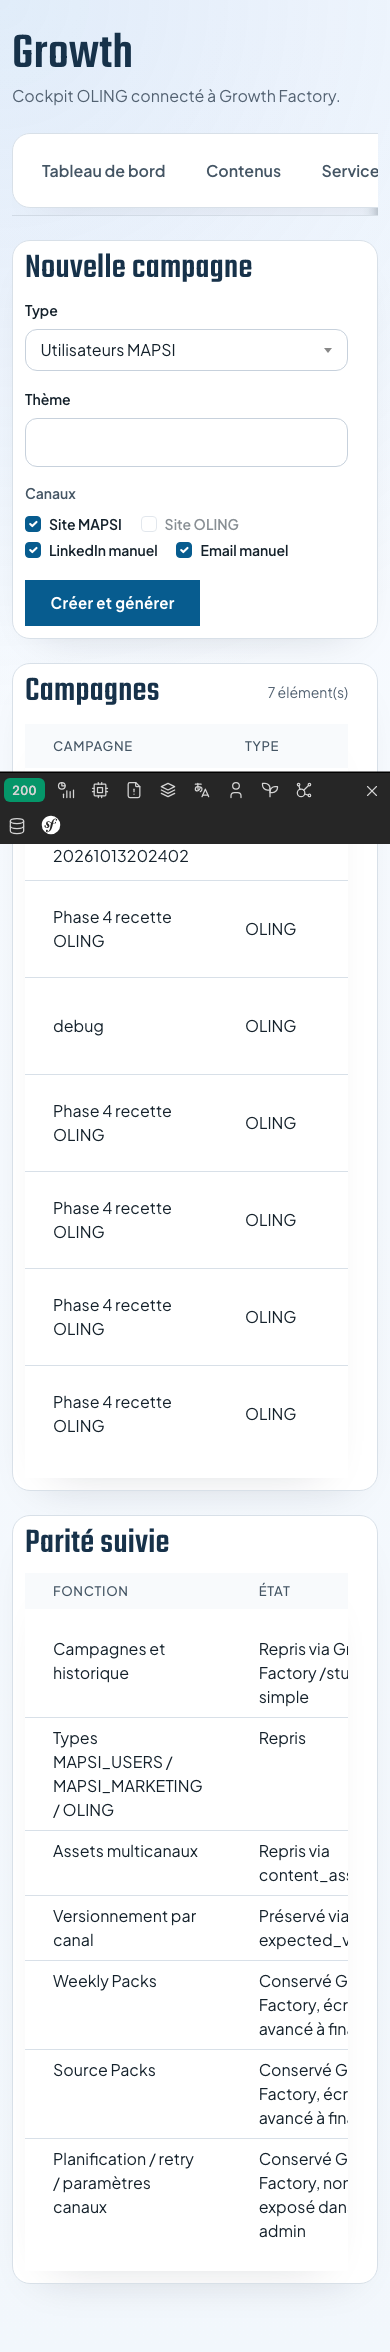
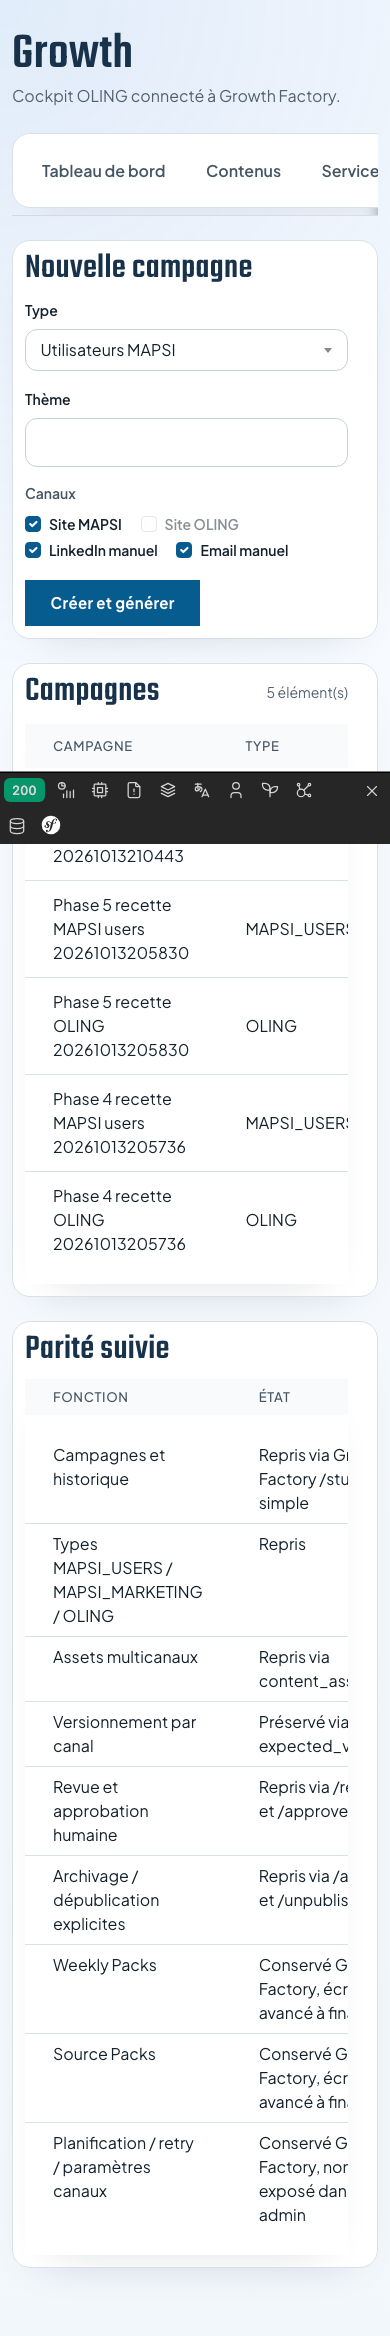
Finalize Growth admin staging workflow

diff --git a/src/Controller/GrowthAdminController.php b/src/Controller/GrowthAdminController.php
@@ -123,6 +123,40 @@ class GrowthAdminController extends AbstractController
         return $this->redirectToRoute('admin_growth_show', ['id' => $id]);
     }
 
+    #[Route('/campaigns/{id}/assets/{assetId}/review', name: 'admin_growth_asset_review', methods: ['POST'])]
+    public function reviewAsset(string $id, string $assetId, Request $request, GrowthFactoryClient $client): Response
+    {
+        $this->validateCsrf($request, 'growth_review_'.$id.'_'.$assetId);
+
+        try {
+            $client->reviewAsset($this->getUserOrDeny(), $id, $assetId, (int) $request->request->get('expected_version', 0), trim((string) $request->request->get('comment', '')));
+            $this->addFlash('success', 'Contenu marqué comme revu.');
+        } catch (GrowthFactoryConflictException) {
+            $this->addFlash('danger', 'Revue impossible : rechargez la campagne ou vérifiez son état.');
+        } catch (GrowthFactoryException $exception) {
+            $this->addFlash('danger', $exception->getMessage());
+        }
+
+        return $this->redirectToRoute('admin_growth_show', ['id' => $id]);
+    }
+
+    #[Route('/campaigns/{id}/assets/{assetId}/approve', name: 'admin_growth_asset_approve', methods: ['POST'])]
+    public function approveAsset(string $id, string $assetId, Request $request, GrowthFactoryClient $client): Response
+    {
+        $this->validateCsrf($request, 'growth_approve_'.$id.'_'.$assetId);
+
+        try {
+            $client->approveAsset($this->getUserOrDeny(), $id, $assetId, (int) $request->request->get('expected_version', 0), trim((string) $request->request->get('comment', '')));
+            $this->addFlash('success', 'Contenu approuvé.');
+        } catch (GrowthFactoryConflictException) {
+            $this->addFlash('danger', 'Approbation impossible : la version ou l’état du contenu a changé.');
+        } catch (GrowthFactoryException $exception) {
+            $this->addFlash('danger', $exception->getMessage());
+        }
+
+        return $this->redirectToRoute('admin_growth_show', ['id' => $id]);
+    }
+
     #[Route('/campaigns/{id}/assets/{assetId}/preview', name: 'admin_growth_asset_preview', methods: ['GET'])]
     public function previewAsset(string $id, string $assetId, GrowthFactoryClient $client, GrowthFactoryView $view): Response
     {
@@ -165,6 +199,37 @@ class GrowthAdminController extends AbstractController
         return $this->redirectToRoute('admin_growth_show', ['id' => $id]);
     }
 
+    #[Route('/campaigns/{id}/unpublish', name: 'admin_growth_unpublish', methods: ['POST'])]
+    public function unpublish(string $id, Request $request, GrowthFactoryClient $client): Response
+    {
+        $this->validateCsrf($request, 'growth_unpublish_'.$id);
+
+        try {
+            $client->unpublishCampaign($this->getUserOrDeny(), $id, (array) $request->request->all('channels'));
+            $this->addFlash('success', 'Dépublication demandée à Growth Factory.');
+        } catch (GrowthFactoryException $exception) {
+            $this->addFlash('danger', $exception->getMessage());
+        }
+
+        return $this->redirectToRoute('admin_growth_show', ['id' => $id]);
+    }
+
+    #[Route('/campaigns/{id}/archive', name: 'admin_growth_archive', methods: ['POST'])]
+    public function archive(string $id, Request $request, GrowthFactoryClient $client): Response
+    {
+        $this->validateCsrf($request, 'growth_archive_'.$id);
+
+        try {
+            $client->archiveCampaign($this->getUserOrDeny(), $id);
+            $this->addFlash('success', 'Campagne archivée.');
+        } catch (GrowthFactoryException $exception) {
+            $this->addFlash('danger', $exception->getMessage());
+            return $this->redirectToRoute('admin_growth_show', ['id' => $id]);
+        }
+
+        return $this->redirectToRoute('admin_growth_index');
+    }
+
     #[Route('/campaigns/{id}/delete', name: 'admin_growth_delete', methods: ['POST'])]
     public function delete(string $id, Request $request, GrowthFactoryClient $client): Response
     {
@@ -172,7 +237,7 @@ class GrowthAdminController extends AbstractController
 
         try {
             $client->deleteCampaign($this->getUserOrDeny(), $id);
-            $this->addFlash('success', 'Campagne supprimée ou archivée par Growth Factory.');
+            $this->addFlash('success', 'Campagne supprimée.');
         } catch (GrowthFactoryException $exception) {
             $this->addFlash('danger', $exception->getMessage());
         }

diff --git a/src/Service/GrowthFactory/GrowthFactoryClient.php b/src/Service/GrowthFactory/GrowthFactoryClient.php
@@ -55,9 +55,35 @@ final class GrowthFactoryClient
         return $this->request($actor, 'PUT', '/studio-simple/campaigns/'.rawurlencode($campaignId).'/assets/'.rawurlencode($assetId), $payload);
     }
 
+    public function reviewAsset(UserInterface $actor, string $campaignId, string $assetId, int $expectedVersion, string $comment = ''): array
+    {
+        return $this->request($actor, 'POST', '/studio-simple/campaigns/'.rawurlencode($campaignId).'/assets/'.rawurlencode($assetId).'/review', [
+            'comment' => $comment,
+            'expected_version' => $expectedVersion,
+        ]);
+    }
+
+    public function approveAsset(UserInterface $actor, string $campaignId, string $assetId, int $expectedVersion, string $comment = ''): array
+    {
+        return $this->request($actor, 'POST', '/studio-simple/campaigns/'.rawurlencode($campaignId).'/assets/'.rawurlencode($assetId).'/approve', [
+            'comment' => $comment,
+            'expected_version' => $expectedVersion,
+        ]);
+    }
+
     public function publishCampaign(UserInterface $actor, string $id, array $channels): array
     {
         return $this->request($actor, 'POST', '/studio-simple/campaigns/'.rawurlencode($id).'/publish', ['channels' => array_values($channels)]);
+    }
+
+    public function unpublishCampaign(UserInterface $actor, string $id, array $channels): array
+    {
+        return $this->request($actor, 'POST', '/studio-simple/campaigns/'.rawurlencode($id).'/unpublish', ['channels' => array_values($channels)]);
+    }
+
+    public function archiveCampaign(UserInterface $actor, string $id): array
+    {
+        return $this->request($actor, 'POST', '/studio-simple/campaigns/'.rawurlencode($id).'/archive');
     }
 
     public function deleteCampaign(UserInterface $actor, string $id): void

diff --git a/tests/GrowthFactoryClientTest.php b/tests/GrowthFactoryClientTest.php
@@ -41,7 +41,11 @@ final class GrowthFactoryClientTest extends TestCase
         $factory->createCampaign($actor, 'MAPSI_MARKETING', 'Theme', ['mapsi_site', 'oling_site']);
         $factory->generateCampaign($actor, 'camp_1');
         $factory->updateAsset($actor, 'camp_1', 'asset_1', ['expected_version' => 3]);
+        $factory->reviewAsset($actor, 'camp_1', 'asset_1', 4, 'ok');
+        $factory->approveAsset($actor, 'camp_1', 'asset_1', 4, 'ok');
         $factory->publishCampaign($actor, 'camp_1', ['mapsi_site']);
+        $factory->unpublishCampaign($actor, 'camp_1', ['mapsi_site']);
+        $factory->archiveCampaign($actor, 'camp_1');
 
         self::assertSame('POST', $requests[0][0]);
         self::assertStringEndsWith('/studio-simple/campaigns', $requests[0][1]);
@@ -49,7 +53,11 @@ final class GrowthFactoryClientTest extends TestCase
         self::assertStringContainsString('/studio-simple/campaigns/camp_1/generate', $requests[1][1]);
         self::assertSame('PUT', $requests[2][0]);
         self::assertSame(['expected_version' => 3], $requests[2][2]);
-        self::assertSame(['channels' => ['mapsi_site']], $requests[3][2]);
+        self::assertStringContainsString('/studio-simple/campaigns/camp_1/assets/asset_1/review', $requests[3][1]);
+        self::assertStringContainsString('/studio-simple/campaigns/camp_1/assets/asset_1/approve', $requests[4][1]);
+        self::assertSame(['channels' => ['mapsi_site']], $requests[5][2]);
+        self::assertStringContainsString('/studio-simple/campaigns/camp_1/unpublish', $requests[6][1]);
+        self::assertStringContainsString('/studio-simple/campaigns/camp_1/archive', $requests[7][1]);
         self::assertStringContainsString('Authorization: Bearer ', implode("\n", $requests[0][3]));
     }
 

diff --git a/src/Service/GrowthFactory/GrowthFactoryView.php b/src/Service/GrowthFactory/GrowthFactoryView.php
@@ -51,6 +51,9 @@ final class GrowthFactoryView
                 'content_text' => '',
                 'status' => 'DRAFT',
                 'version' => 0,
+                'approved_by' => '',
+                'approved_at' => null,
+                'approved_version' => null,
                 'published_at' => null,
                 'public_url' => '',
             ];
@@ -76,6 +79,8 @@ final class GrowthFactoryView
             ['feature' => 'Types MAPSI_USERS / MAPSI_MARKETING / OLING', 'status' => 'Repris', 'phase' => 'Phase 3'],
             ['feature' => 'Assets multicanaux', 'status' => 'Repris via content_assets', 'phase' => 'Phase 3'],
             ['feature' => 'Versionnement par canal', 'status' => 'Préservé via expected_version', 'phase' => 'Phase 3'],
+            ['feature' => 'Revue et approbation humaine', 'status' => 'Repris via /review et /approve', 'phase' => 'Phase 5'],
+            ['feature' => 'Archivage / dépublication explicites', 'status' => 'Repris via /archive et /unpublish', 'phase' => 'Phase 5'],
             ['feature' => 'Weekly Packs', 'status' => 'Conservé Growth Factory, écran avancé à finaliser', 'phase' => 'Lot ultérieur'],
             ['feature' => 'Source Packs', 'status' => 'Conservé Growth Factory, écran avancé à finaliser', 'phase' => 'Lot ultérieur'],
             ['feature' => 'Planification / retry / paramètres canaux', 'status' => 'Conservé Growth Factory, non exposé dans MVP admin', 'phase' => 'Lot ultérieur'],

diff --git a/docs/growth/GROWTH_PHASE5_FINALISATION.md b/docs/growth/GROWTH_PHASE5_FINALISATION.md
@@ -1,0 +1,132 @@
+# Growth Phase 5 - Finalisation métier et préparation staging
+
+Date : 2026-10-13
+
+## Fonctions implémentées
+
+- Suppression de l'auto-approbation après génération IA.
+- Workflow simple : `DRAFT -> READY_FOR_REVIEW/GENERATED -> REVIEWED -> APPROVED -> PUBLISHED`.
+- Revue et approbation humaines par asset/canal, avec acteur JWT, date et version approuvée.
+- Invalidation d'approbation après modification de contenu.
+- Publication refusée si l'asset ou sa version courante n'est pas approuvé.
+- Suppression logique limitée aux campagnes jamais publiées, avec audit conservé.
+- Archivage distinct, sans dépublication.
+- Dépublication distincte, explicite, par canal.
+- Générateur Growth configurable par `GROWTH_GENERATOR_MODE=simulated|openai`.
+- Sanitation HTML serveur sur les contenus édités.
+- OLING Admin expose revue, approbation, publication, dépublication, archivage et suppression séparées.
+
+## Contrats API ajoutés ou modifiés
+
+- `POST /studio-simple/campaigns/{campaign_id}/assets/{asset_id}/review`
+- `POST /studio-simple/campaigns/{campaign_id}/assets/{asset_id}/approve`
+- `POST /studio-simple/campaigns/{campaign_id}/archive`
+- `POST /studio-simple/campaigns/{campaign_id}/unpublish`
+- `DELETE /studio-simple/campaigns/{campaign_id}` : suppression logique `DELETED`, seulement si jamais publié ; la campagne devient ensuite inaccessible via l'API simple.
+- `SimpleAssetResponse` ajoute `approved_by`, `approved_at`, `approved_version`.
+- `expected_version` reste obligatoire côté OLING pour les actions sensibles par asset.
+
+## Recette navigateur
+
+Commande :
+
+```bash
+OLING_BASE_URL=http://127.0.0.1:8061 OLING_ADMIN_USERNAME=phase5 OLING_ADMIN_PASSWORD=testpass node tests/e2e/growth-phase5-recette.mjs
+```
+
+Résultat : OK.
+
+Parcours rejoué :
+
+- `OLING`, `MAPSI_USERS`, `MAPSI_MARKETING`.
+- Canaux `oling_site`, `mapsi_site`, `linkedin_manual`, `email_manual`.
+- Création, génération simulée, édition, conflit de version, preview, publication refusée sans approbation, revue, approbation, publication mock, suppression avant publication, archivage après publication.
+
+Captures mises à jour :
+
+- `docs/growth/screenshots/growth-index-desktop.png`
+- `docs/growth/screenshots/growth-index-mobile.png`
+- `docs/growth/screenshots/growth-oling-show.png`
+- `docs/growth/screenshots/growth-preview.png`
+
+## Tests exécutés
+
+| Périmètre | Commande | Résultat |
+| --- | --- | --- |
+| Growth Factory SQLite/test | `python3 -m pytest tests/integration/test_simple_campaign_api.py tests/unit/test_simple_campaign_service.py -q` | OK, 10 tests avant ajout XSS |
+| Growth Factory PostgreSQL staging | `DATABASE_URL=postgresql+psycopg://florestanrouet@localhost:5432/mapsi_growth_phase5_staging GROWTH_GENERATOR_MODE=simulated python3 -m pytest tests/integration/test_simple_campaign_api.py tests/unit/test_simple_campaign_service.py -q` | OK, 11 tests |
+| OLING Growth client | `./vendor/bin/phpunit --do-not-cache-result tests/GrowthFactoryClientTest.php` | OK, 5 tests, 18 assertions |
+| OLING Growth view | `./vendor/bin/phpunit --do-not-cache-result tests/GrowthFactoryViewTest.php` | OK, 2 tests, 6 assertions |
+| OLING Analytics | `./vendor/bin/phpunit --do-not-cache-result tests/AnalyticsTrackingTest.php` | OK, 7 tests, 26 assertions |
+| OLING agent IA commercial | `./vendor/bin/phpunit --do-not-cache-result tests/ChatConversationManagerTest.php` | OK, 3 tests, 6 assertions |
+| OLING contact/admin | `./vendor/bin/phpunit --do-not-cache-result tests/ContactControllerTest.php` | OK, 5 tests, 17 assertions |
+| Routes OLING Growth | `php bin/console debug:router --env=dev \| rg admin_growth` | OK |
+
+## PostgreSQL staging local
+
+Base dédiée : `mapsi_growth_phase5_staging`.
+
+Commandes validées :
+
+```bash
+dropdb --if-exists mapsi_growth_phase5_staging
+createdb mapsi_growth_phase5_staging
+DATABASE_URL=postgresql+psycopg://florestanrouet@localhost:5432/mapsi_growth_phase5_staging alembic upgrade head
+DATABASE_URL=postgresql+psycopg://florestanrouet@localhost:5432/mapsi_growth_phase5_staging alembic upgrade head
+```
+
+Résultat :
+
+- migrations Alembic réelles OK sur base vide ;
+- redémarrage sur base déjà migrée OK ;
+- aucune adaptation SQLite ajoutée.
+
+## Sécurité contenus
+
+- Sanitation serveur ajoutée sur HTML édité : suppression `script/style/iframe/object/embed`, attributs `on*`, URL `javascript:` et `data:`.
+- Preview OLING conservée en iframe sandbox.
+- Actions sensibles OLING protégées par CSRF.
+- Permissions Growth portées par JWT RS256 serveur-à-serveur.
+- Test XSS synthétique OK : contenu nettoyé avant stockage/réponse.
+- Aucun secret de production ni publication réelle utilisés.
+
+## Matrice de parité
+
+| Fonction | Etat Phase 5 |
+| --- | --- |
+| Campagnes simples | Opérationnel via Growth Factory |
+| Génération IA | Opérationnel en mode `simulated`, réel via `openai` explicite |
+| Edition/versionnement | Opérationnel avec `expected_version` |
+| Revue humaine | Opérationnel par asset |
+| Approbation humaine | Opérationnel par asset, versionnée |
+| Publication | Opérationnelle en mock, refus sans approbation |
+| Dépublication | Endpoint dédié, mock validé |
+| Suppression | Logique `DELETED`, limitée aux campagnes jamais publiées, audit conservé |
+| Archivage | Endpoint dédié, liste active filtrée |
+| Weekly Packs / Source Packs / retry / schedule / channel settings | Conservés Growth Factory, écrans avancés à planifier |
+
+## Etat Git
+
+- OLING : branche `codex-growth-oling-admin-integration`, commit local Phase 5.
+- Growth Factory : commit local `e1d688e Finalize simple Growth workflow for staging`.
+- Growth Factory conserve des modifications non liées non stagées, préexistantes.
+- Aucun push, merge ou déploiement.
+
+## Ecarts restants
+
+- L'interface OLING reste volontairement simple ; les écrans avancés Weekly Packs, Source Packs, retry, schedule et channel settings restent à exposer.
+- La sanitation HTML est stricte et locale au flux simple ; une politique HTML centralisée serait préférable avant production.
+- Les commandes de démarrage staging restent manuelles ; prévoir script `bin/growth-phase5-local` ou équivalent.
+- Les publishers réels n'ont pas été sollicités.
+
+## Décision
+
+Décision : **GO pour recette de préproduction isolée**, **NO-GO production directe**.
+
+Conditions avant production :
+
+- rejouer la recette sur un vrai staging réseau ;
+- valider les clés JWT dédiées staging/prod ;
+- activer `GROWTH_FACTORY_ENABLED` uniquement par feature flag contrôlé ;
+- vérifier les publishers réels en sandbox fournisseur ;
+- finaliser le runbook rollback : désactivation flag OLING puis arrêt API Growth côté admin.
